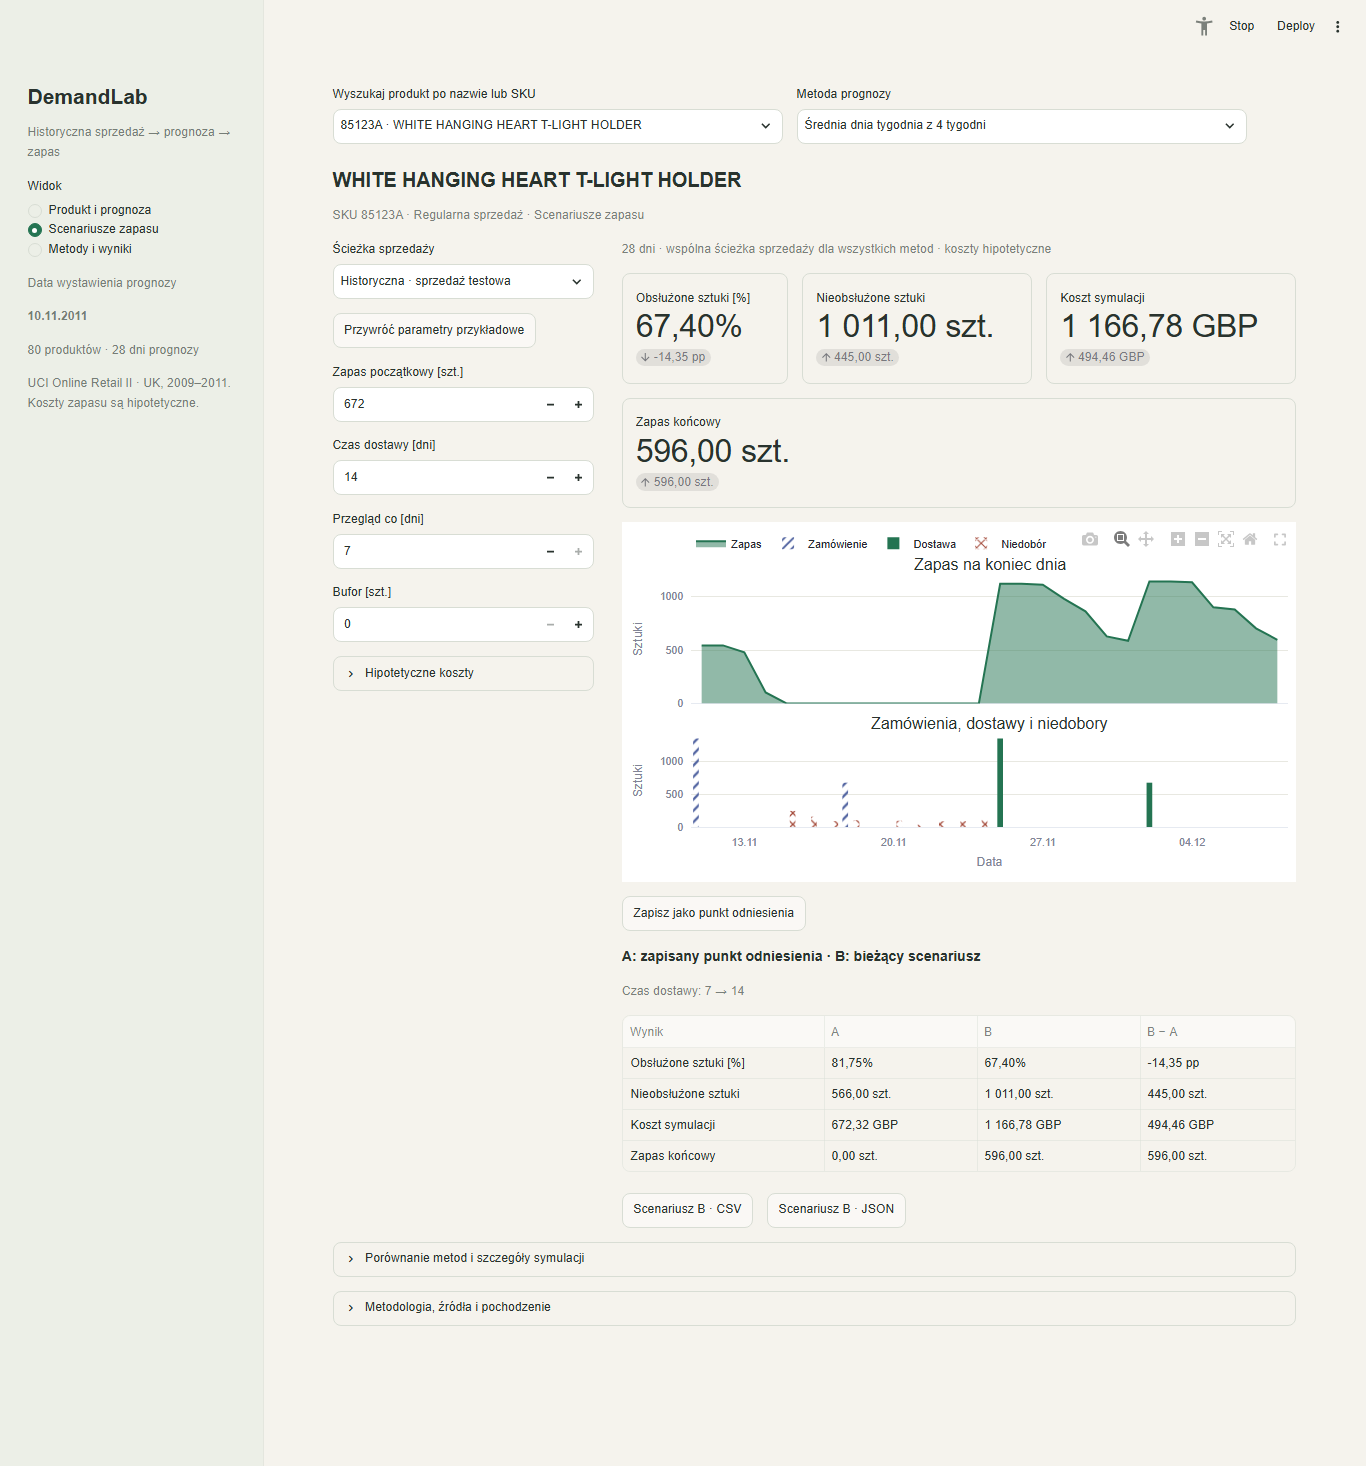
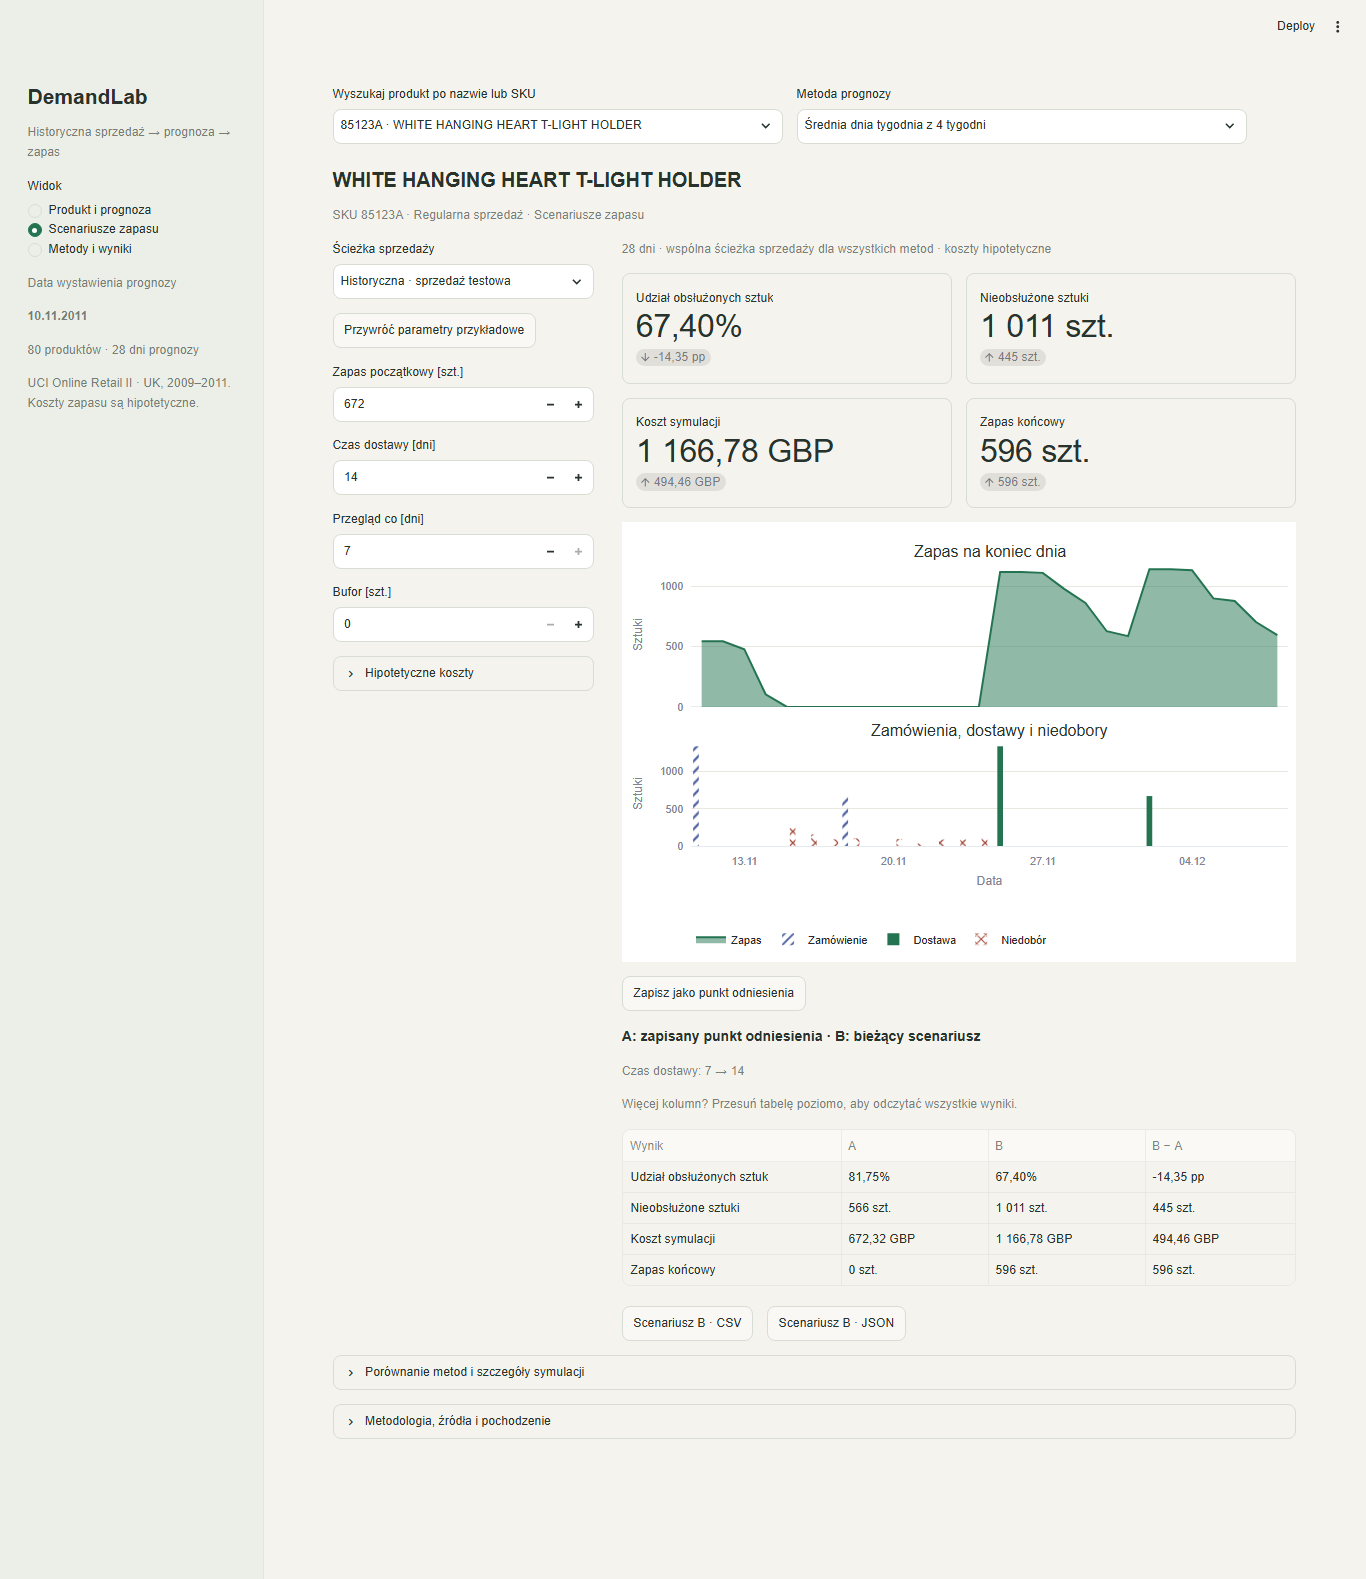
Fix public verification and finish responsive inventory presentation

diff --git a/app/views.py b/app/views.py
@@ -7,7 +7,14 @@ import pandas as pd
 import plotly.graph_objects as go
 import streamlit as st
 from charts import forecast_chart, inventory_chart, style
-from presentation import METHODS, display, method_label, method_table
+from presentation import (
+    METHODS,
+    display,
+    format_metrics,
+    measure_digits,
+    method_label,
+    method_table,
+)
 from state import (
     changed_parameters,
     example_parameters,
@@ -17,6 +24,11 @@ from state import (
 )
 
 from demandlab.inventory import InventoryParameters, simulate
+
+
+def show_table(frame, **kwargs):
+    st.caption("Więcej kolumn? Przesuń tabelę poziomo, aby odczytać wszystkie wyniki.")
+    st.dataframe(frame, width="stretch", **kwargs)
 
 
 def product_view(data, history, final, observed, origin, sku, method, methods):
@@ -80,7 +92,7 @@ def product_view(data, history, final, observed, origin, sku, method, methods):
             icon=":material/download:",
         )
     with st.expander("Zapisane wartości prognozy"):
-        st.dataframe(table, hide_index=True, alt="Prognozy i granice przedziałów")
+        show_table(table, hide_index=True, alt="Prognozy i granice przedziałów")
 
 
 def inventory_view(data, history, final, observed, origin, sku, method, methods):
@@ -189,24 +201,32 @@ def inventory_view(data, history, final, observed, origin, sku, method, methods)
             return
         result = results[method]
         measures = [
-            ("service_rate", "Obsłużone sztuki [%]", "%", 100),
+            ("service_rate", "Udział obsłużonych sztuk", "%", 100),
             ("unserved_units", "Nieobsłużone sztuki", " szt.", 1),
             ("total_cost_gbp", "Koszt symulacji", " GBP", 1),
             ("ending_stock", "Zapas końcowy", " szt.", 1),
         ]
         baseline = st.session_state.get("baseline")
-        with st.container(horizontal=True):
-            for field, label, suffix, scale in measures:
+        for start in range(0, len(measures), 2):
+            columns = st.columns(2)
+            for column, (field, label, suffix, scale) in zip(
+                columns, measures[start : start + 2], strict=True
+            ):
                 value = result.summary[field]
                 delta = None
                 if baseline and value is not None and baseline["summary"][field] is not None:
                     delta = display(
                         (value - baseline["summary"][field]) * scale,
                         " pp" if field == "service_rate" else suffix,
+                        digits=measure_digits(field),
                     )
-                st.metric(
+                column.metric(
                     label,
-                    display(None if value is None else value * scale, suffix),
+                    display(
+                        None if value is None else value * scale,
+                        suffix,
+                        digits=measure_digits(field),
+                    ),
                     delta=delta,
                     delta_color="off",
                     border=True,
@@ -253,12 +273,14 @@ def inventory_view(data, history, final, observed, origin, sku, method, methods)
                             if baseline["summary"][field] is not None
                             else None,
                             suffix,
+                            digits=measure_digits(field),
                         ),
                         "B": display(
                             result.summary[field] * scale
                             if result.summary[field] is not None
                             else None,
                             suffix,
+                            digits=measure_digits(field),
                         ),
                         "B − A": display(
                             (result.summary[field] - baseline["summary"][field]) * scale
@@ -266,12 +288,13 @@ def inventory_view(data, history, final, observed, origin, sku, method, methods)
                             and baseline["summary"][field] is not None
                             else None,
                             " pp" if field == "service_rate" else suffix,
+                            digits=measure_digits(field),
                         ),
                     }
                     for field, label, suffix, scale in measures
                 ]
             )
-            st.dataframe(comparison, hide_index=True, alt="Wyniki A i B oraz różnice")
+            show_table(comparison, hide_index=True, alt="Wyniki A i B oraz różnice")
         else:
             st.caption(
                 "Zmiana produktu, metody, daty lub ścieżki sprzedaży usuwa punkt odniesienia A."
@@ -304,7 +327,7 @@ def inventory_view(data, history, final, observed, origin, sku, method, methods)
         st.caption(
             "Wspólna ścieżka: historyczna sprzedaż albo prognoza metody domyślnej × mnożnik, floor(x+0,5). Przykładowy zapas = ceil(7 × średnia 28 dni historii). Sama zmiana dostawy nie zmienia zapasu początkowego."
         )
-        st.dataframe(
+        show_table(
             pd.DataFrame(
                 [
                     {
@@ -314,7 +337,7 @@ def inventory_view(data, history, final, observed, origin, sku, method, methods)
                             if r.summary["service_rate"] is not None
                             else None
                         ),
-                        "Niedobór [szt.]": r.summary["unserved_units"],
+                        "Niedobór [szt.]": display(r.summary["unserved_units"], digits=0),
                         "Koszt [GBP]": display(r.summary["total_cost_gbp"]),
                     }
                     for m, r in results.items()
@@ -327,7 +350,12 @@ def inventory_view(data, history, final, observed, origin, sku, method, methods)
             "Dostawy → przegląd i zamówienie → sprzedaż → koszty. Brak backorders i początkowego pipeline. Okno celu kończy się w dniu 28; brak wyceny odzysku zapasu. Wynik jest symulacją, nie optymalizacją rzeczywistej firmy."
         )
         st.json({"parameters": asdict(parameters), "provenance": provenance})
-        st.dataframe(result.daily, hide_index=True, alt="Pełny dzienny przebieg scenariusza B")
+        daily_table = result.daily.copy()
+        for col in daily_table.select_dtypes("number"):
+            daily_table[col] = daily_table[col].map(
+                lambda x, column=col: display(x, digits=2 if "cost" in column else 0)
+            )
+        show_table(daily_table, hide_index=True, alt="Pełny dzienny przebieg scenariusza B")
 
 
 def frozen_report(root, name):
@@ -402,13 +430,11 @@ def methods_view(data, root, sku, method, methods):
     fig.update_layout(showlegend=False, xaxis_title="WAPE [%] · niżej = lepiej", yaxis_title=None)
     st.plotly_chart(fig, width="stretch", alt="Globalny błąd WAPE trzech metod")
     columns = [c for c in ["mae", "wape", "bias"] if c in subset]
-    table = method_table(subset, columns)
+    table = method_table(subset, columns, formatted=True)
     table["Wybór"] = [
         "Wybrana na walidacji" if m == data["manifest"]["winner"] else "" for m in subset.method
     ]
-    for c in table.select_dtypes("number"):
-        table[c] = table[c].map(display)
-    st.dataframe(
+    show_table(
         table,
         hide_index=True,
         alt="Globalne MAE, WAPE i bias; wybór walidacyjny oznaczony etykietą",
@@ -423,7 +449,7 @@ def methods_view(data, root, sku, method, methods):
                 "Szerokość 95%": subset.width95.map(lambda x: display(x, " szt.")),
             }
         )
-        st.dataframe(bounds, hide_index=True, alt="Pokrycie w procentach i szerokość w sztukach")
+        show_table(bounds, hide_index=True, alt="Pokrycie w procentach i szerokość w sztukach")
     st.caption(
         "MAE: średni błąd w sztukach. WAPE: suma błędów / suma sprzedaży [%]. Bias: kierunek względnego błędu [%]. N/A: brak wyniku lub przedziałów."
     )
@@ -443,8 +469,8 @@ def methods_view(data, root, sku, method, methods):
     per_sku = frozen_report(root, "metrics_by_sku.csv")
     if not per_sku.empty:
         per_sku = per_sku[per_sku.split == "final_test"]
-        st.dataframe(
-            method_table(per_sku[per_sku.sku == sku], ["mae", "wape", "bias"]),
+        show_table(
+            method_table(per_sku[per_sku.sku == sku], ["mae", "wape", "bias"], formatted=True),
             hide_index=True,
             alt="Testowe metryki aktualnego produktu, oddzielone od globalnych",
         )
@@ -462,8 +488,8 @@ def methods_view(data, root, sku, method, methods):
                 .sort_values("mae", ascending=False)
                 .head(8)
             )
-            st.dataframe(
-                hard[["sku", "mae", "wape", "bias"]].rename(
+            show_table(
+                format_metrics(hard[["sku", "mae", "wape", "bias"]]).rename(
                     columns={
                         "sku": "SKU",
                         "mae": "MAE [szt.]",

diff --git a/scripts/build_review_bundle.py b/scripts/build_review_bundle.py
@@ -16,25 +16,20 @@ from datetime import UTC, datetime
 from pathlib import Path, PurePosixPath
 
 RUNTIME_EVIDENCE = (
-    "output/frontend/junit.xml",
-    "output/frontend/pytest-final.log",
-    "output/frontend/ui-final.log",
-    "output/frontend/pytest-console.log",
-    "output/frontend/bootstrap-zip.log",
-    "output/frontend/code_changes.diff",
-    "output/frontend/docker-build.log",
-    "output/frontend/clean-demo.json",
-    "output/frontend/protected_before.json",
-    "output/frontend/protected_after.json",
-    "output/frontend/review.md",
-    "output/frontend/browser-final/browser_checks.json",
-    "output/frontend/browser-final/inventory_visible.json",
-    "output/frontend/browser-final/inventory_visible.csv",
-    "output/frontend/docker-browser/browser_checks.json",
-    "output/frontend/zip-browser/browser_checks.json",
-    "output/frontend/clone-browser/browser_checks.json",
+    "output/final-fixes/readme-integrity.log",
+    "output/final-fixes/verify.log",
+    "output/final-fixes/junit.xml",
+    "output/final-fixes/code_changes.diff",
+    "output/final-fixes/protected-before.json",
+    "output/final-fixes/protected-after.json",
+    "output/final-fixes/review.md",
+    "output/final-fixes/zoom.json",
+    "output/final-fixes/zip-check.json",
+    "output/final-fixes/browser/browser_checks.json",
+    "output/final-fixes/browser/inventory_visible.json",
+    "output/final-fixes/browser/inventory_visible.csv",
 ) + tuple(
-    "output/frontend/browser-final/" + name
+    "output/final-fixes/browser/" + name
     for name in (
         "frontend_product_1440.png",
         "frontend_inventory_1440.png",
@@ -43,6 +38,8 @@ RUNTIME_EVIDENCE = (
         "frontend_inventory_390.png",
         "frontend_methods_390.png",
         "frontend_zoom_200.png",
+        "inventory_zoom_200.png",
+        "frontend_inventory_mobile_AB.png",
     )
 )
 EXCLUDED_DIRECTORIES = {

diff --git a/tests/test_presentation_regression.py b/tests/test_presentation_regression.py
@@ -13,7 +13,14 @@ sys.path.insert(0, str(Path(__file__).resolve().parents[1] / "app"))
 
 from artifacts import load_artifacts
 from charts import forecast_chart, inventory_chart
-from presentation import METHODS, display, method_label, method_table
+from presentation import (
+    METHODS,
+    display,
+    format_metrics,
+    measure_digits,
+    method_label,
+    method_table,
+)
 from state import (
     changed_parameters,
     example_parameters,
@@ -58,6 +65,20 @@ def test_null_and_zero_values_are_distinct():
     assert display(np.nan, "%") == "N/A"
     assert display(0, "%") == "0,00%"
     assert display(-8.721407, "%") == "-8,72%"
+
+
+def test_polish_presentation_preserves_raw_precision():
+    raw = pd.DataFrame(
+        {"method": ["weekday_mean_4w"], "mae": [1.23456789], "wape": [0.0], "bias": [np.nan]}
+    )
+    before = raw.copy(deep=True)
+    shown = method_table(raw, ["mae", "wape", "bias"], formatted=True)
+    assert shown.iloc[0].tolist()[1:] == ["1,23", "0,00", "N/A"]
+    assert format_metrics(raw).mae.tolist() == ["1,23"]
+    pd.testing.assert_frame_equal(raw, before)
+    assert display(1011, " szt.", digits=measure_digits("unserved_units")) == "1 011 szt."
+    assert display(1166.789, " GBP", digits=measure_digits("total_cost_gbp")) == "1 166,79 GBP"
+    assert display(-14.35, " pp", digits=measure_digits("service_rate")) == "-14,35 pp"
 
 
 @pytest.mark.parametrize("method", list(METHODS))

diff --git a/app/charts.py b/app/charts.py
@@ -16,6 +16,7 @@ def style(fig, height=330):
         hovermode="x unified",
         xaxis_title="Data",
         yaxis_title="Sztuki",
+        separators=", ",
     )
     fig.update_xaxes(showgrid=False)
     fig.update_yaxes(gridcolor="#E8E8E1", rangemode="tozero")
@@ -115,8 +116,16 @@ def inventory_chart(result, dates, method):
             row=2,
             col=1,
         )
-    fig = style(fig, 360)
-    fig.update_layout(barmode="group", xaxis_title=None, xaxis2_title="Data")
+    fig = style(fig, 440)
+    # Reserve separate space below both panels for a wrapping mobile legend.
+    fig.update_layout(
+        barmode="group",
+        xaxis_title=None,
+        xaxis2_title="Data",
+        margin=dict(l=8, r=8, t=40, b=110),
+        legend=dict(orientation="h", x=0, y=-0.28, xanchor="left", yanchor="top"),
+        separators=", ",
+    )
     fig.update_xaxes(tickformat="%d.%m")
     fig.update_yaxes(title_text="Sztuki", row=2, col=1)
     return fig

diff --git a/app/presentation.py b/app/presentation.py
@@ -25,8 +25,22 @@ def display(value, suffix="", digits=2):
     return f"{value:,.{digits}f}".replace(",", " ").replace(".", ",") + suffix
 
 
-def method_table(frame, columns):
+def measure_digits(field):
+    return 0 if field in {"unserved_units", "ending_stock"} else 2
+
+
+def format_metrics(frame):
+    result = frame.copy()
+    for column in ("mae", "wape", "bias"):
+        if column in result:
+            result[column] = result[column].map(display)
+    return result
+
+
+def method_table(frame, columns, formatted=False):
     result = frame[["method", *columns]].copy()
+    if formatted:
+        result = format_metrics(result)
     result["method"] = result.method.map(method_label)
     return result.rename(
         columns={"method": "Metoda", "mae": "MAE [szt.]", "wape": "WAPE [%]", "bias": "Bias [%]"}

diff --git a/tests/test_app.py b/tests/test_app.py
@@ -105,7 +105,7 @@ def test_three_views_and_real_widget_interactions(demo):
     app.number_input(key="lead_time").set_value(1).run()
     app.number_input(key="initial_stock").set_value(0).run()
     assert not app.exception
-    assert next(d.value for d in app.dataframe if "served" in d.value).loc[0, "served"] == 0
+    assert next(d.value for d in app.dataframe if "served" in d.value).loc[0, "served"] == "0"
     app.selectbox(key="scenario").select("reference").run()
     app.slider(key="multiplier").set_value(0.0).run()
     assert not app.exception

diff --git a/PROJECT_STATE.md b/PROJECT_STATE.md
@@ -57,3 +57,12 @@
 - Runtime installation separates minimal demo from optional research/dev dependencies. All pre-existing locked package versions retained. Native launcher requires neither activation nor Git and does no installation at startup.
 - Original research reproduction belongs in a separate checkout at the verified MVP study version; it must not overwrite this presentation's bundled artifacts.
 - Final delivery SHA, GitHub CI, clean clone/ZIP and Docker browser outcomes are stored in output/delivery_checks.json and the review bundle after their actual verification. No merge or publication to paid hosting is performed.
+
+## Limited frontend closure
+
+- Corrected all active protect_study invocations to include `check`; the protected manifest and checker remain unchanged.
+- Windows CI now runs public verify.ps1 once instead of repeating its corresponding integrity/lint/format/full-suite steps. JUnit and browser artifacts retained.
+- Actual local README integrity command PASS; public PowerShell5.1 verify.ps1 PASS, 79 tests. Fixtures are synthetic, no historical research rerun.
+- Inventory cards use two explicit rows; Polish formatting separates integer counts from two-decimal percentages, costs and errors. Raw inputs/exports unchanged.
+- Inventory legend has reserved space below the two panels. Actual screenshots inspected at390x844,1366x768,1440x900 and native Chromium200% zoom; separate interaction checks and visual review stored in output/final-fixes.
+- Final SHA/PR/CI, ZIP startup and archive metadata are recorded after commit under output, never inferred from earlier CI.

diff --git a/README.md b/README.md
@@ -103,7 +103,7 @@ Developer checks use the same lockfile:
 
 ```sh
 uv sync --frozen --extra research --extra dev --python 3.12
-uv run --no-sync python scripts/protect_study.py --manifest docs/study_integrity.json
+uv run --no-sync python scripts/protect_study.py check --manifest docs/study_integrity.json
 uv run --no-sync ruff check .
 uv run --no-sync ruff format --check .
 uv run --no-sync pytest
@@ -113,6 +113,13 @@ CI runs fixture regressions and browser startup on Windows, Linux and macOS,
 plus container browser interaction. Job artifacts record actual OS/architecture;
 only completed jobs are evidence of a tested platform. Scientific package
 versions were preserved when separating demo, research and development extras.
+
+On Windows, the public verification entry point runs integrity, Ruff and the full
+fixture suite once (also used by Windows CI):
+
+```powershell
+powershell -NoProfile -ExecutionPolicy Bypass -File scripts\verify.ps1
+```
 AI assistance was used in implementation and review; the code and validation
 evidence are available for inspection.
 

diff --git a/docs/frontend.md b/docs/frontend.md
@@ -72,3 +72,10 @@ post-test UI correction disclosure. The presentation is versioned by its current
 Git commit; changing app code does not reapprove or rerun the frozen final test.
 This implementation was developed with AI assistance, without claims of
 independent sole authorship or commercial outcomes.
+
+Inventory metrics use two explicit rows, with responsive columns. The chart
+reserves a bottom margin for its wrapping legend, separate from both subplot
+titles and the date axis. Tables retain all metrics and advertise horizontal
+scrolling. Shared presentation helpers format Polish decimals, integer stock,
+two-decimal errors/costs and percentage-point deltas; input arrays and raw exports
+retain their original precision.

diff --git a/docs/reproducibility.md b/docs/reproducibility.md
@@ -3,7 +3,7 @@
 The frontend displays an existing frozen study. Its presentation source has
 changed; its data, model calculations, SQL, configurations and published study
 artifacts are protected by [study_integrity.json](study_integrity.json). Check
-them with `python scripts/protect_study.py --manifest docs/study_integrity.json`.
+them with `python scripts/protect_study.py check --manifest docs/study_integrity.json`.
 Ordinary demo startup needs no Git, research dependencies, MLflow, raw source
 workbook or local training artifacts. See the [demo instructions](../README.md).
 
